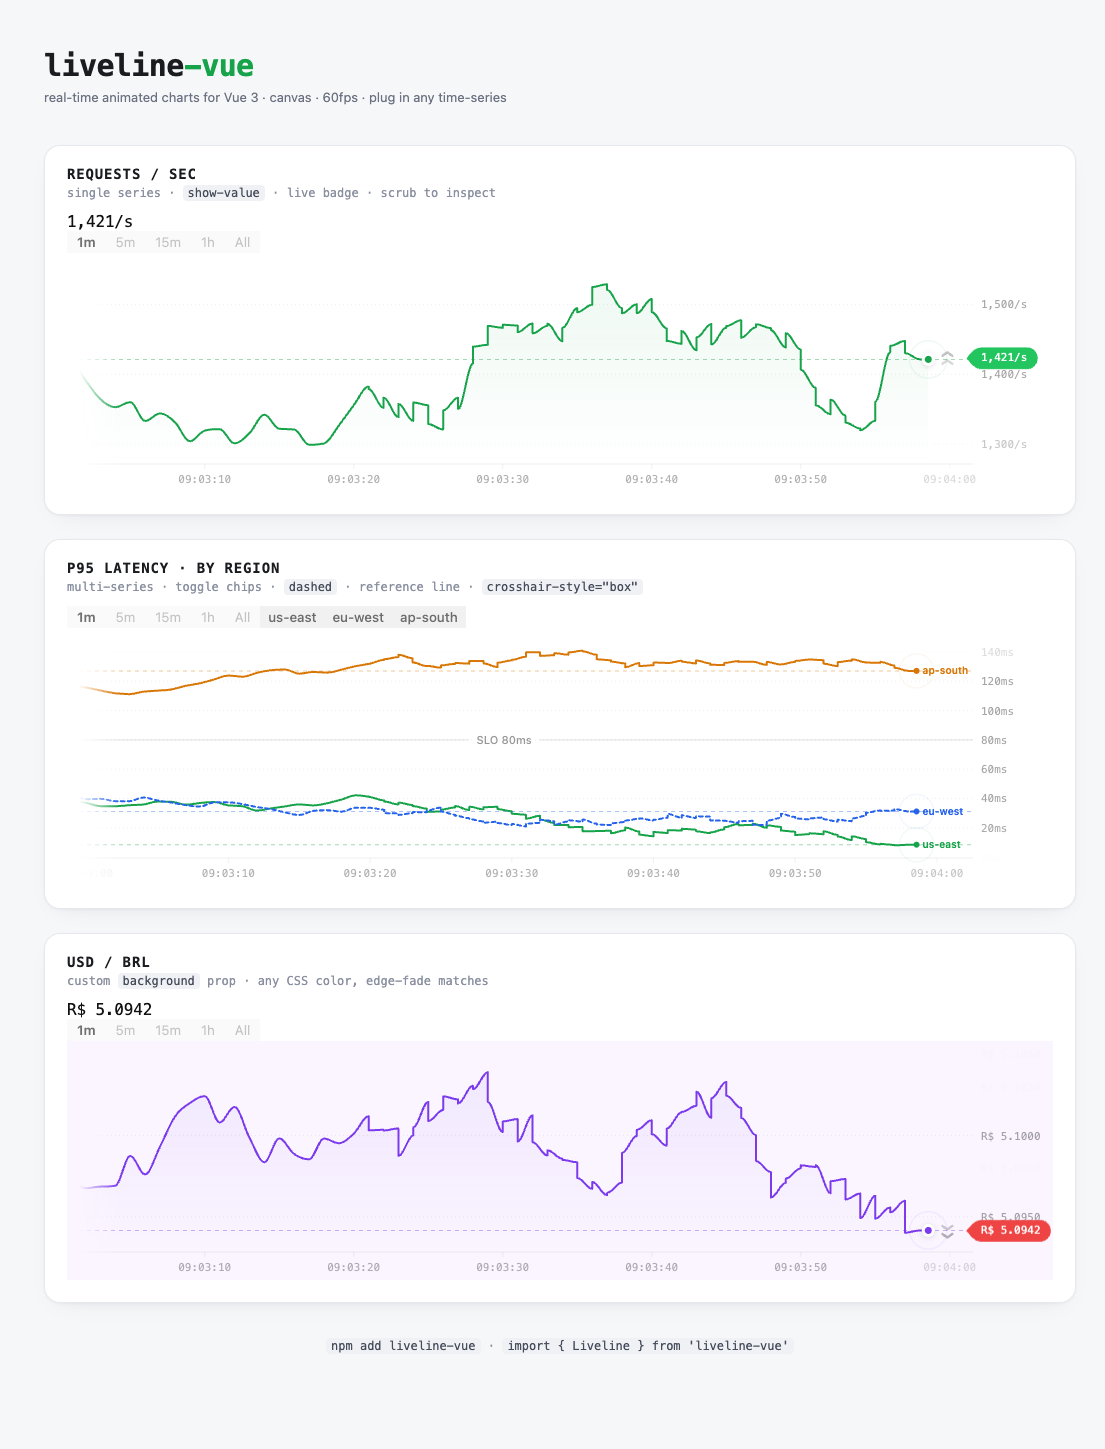
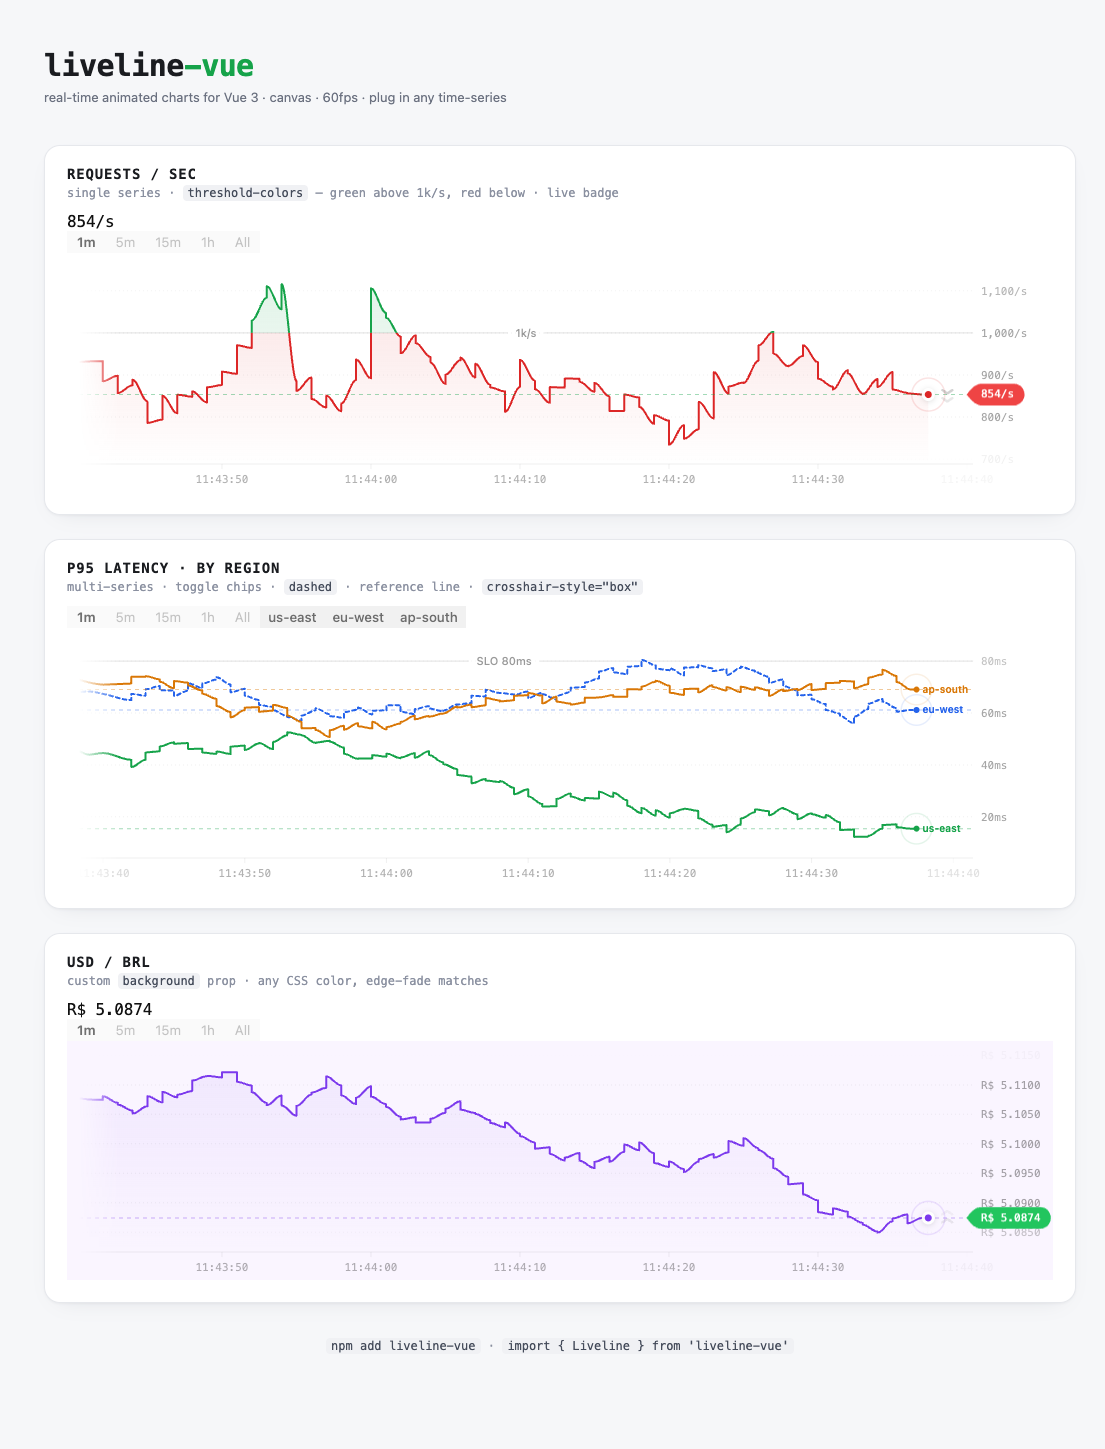
feat: thresholdColors — colour line + fill by a y threshold (green above / red below) (0.0.5)
Split lands exactly on the limit line (horizontal clip at the threshold's
screen-Y), so it works with the spline + fill — no per-segment interpolation
needed. The end dot follows the current above/below state. Single-series.
New prop in types.ts + Liveline.vue (default undefined, backward compatible).
Threaded through draw/line.ts (renderCurveThreshold), draw/index.ts, engine.
README + demo updated.

diff --git a/src/draw/line.ts b/src/draw/line.ts
@@ -1,4 +1,4 @@
-import type { LivelinePalette, ChartLayout, LivelinePoint } from '../types'
+import type { LivelinePalette, ChartLayout, LivelinePoint, ThresholdColors } from '../types'
 import { drawSpline } from '../math/spline'
 import { loadingY, loadingBreath, LOADING_AMPLITUDE_RATIO, LOADING_SCROLL_SPEED } from './loadingShape'
 
@@ -31,6 +31,12 @@ function blendColor(c1: string, c2: string, t: number): string {
   return `rgba(${r},${g},${b},${a.toFixed(3)})`
 }
 
+/** CSS color → rgba() string at the given alpha. */
+function withAlpha(color: string, a: number): string {
+  const [r, g, b] = parseRgba(color)
+  return `rgba(${r}, ${g}, ${b}, ${a})`
+}
+
 /** Draw the fill gradient + stroke line for a set of points. */
 function renderCurve(
   ctx: CanvasRenderingContext2D,
@@ -41,6 +47,7 @@ function renderCurve(
   lineAlpha: number = 1,
   fillAlpha: number = 1,
   strokeColor?: string,
+  fillBase?: string,
 ) {
   const { h, pad } = layout
   const baseAlpha = ctx.globalAlpha
@@ -48,8 +55,13 @@ function renderCurve(
   if (showFill && fillAlpha > 0.01) {
     ctx.globalAlpha = baseAlpha * fillAlpha
     const grad = ctx.createLinearGradient(0, pad.top, 0, h - pad.bottom)
-    grad.addColorStop(0, palette.fillTop)
-    grad.addColorStop(1, palette.fillBottom)
+    if (fillBase) {
+      grad.addColorStop(0, withAlpha(fillBase, 0.14))
+      grad.addColorStop(1, withAlpha(fillBase, 0))
+    } else {
+      grad.addColorStop(0, palette.fillTop)
+      grad.addColorStop(1, palette.fillBottom)
+    }
     ctx.beginPath()
     ctx.moveTo(pts[0][0], h - pad.bottom)
     ctx.lineTo(pts[0][0], pts[0][1])
@@ -72,6 +84,42 @@ function renderCurve(
   ctx.globalAlpha = baseAlpha
 }
 
+/**
+ * Threshold colouring: draw the curve twice, clipped to horizontal bands split
+ * at the threshold's screen-Y. Above the limit → `above` colour, below → `below`.
+ * The split lands exactly on the limit line (= the crossing point), and works
+ * for the spline + fill without per-segment interpolation.
+ */
+function renderCurveThreshold(
+  ctx: CanvasRenderingContext2D,
+  layout: ChartLayout,
+  palette: LivelinePalette,
+  pts: [number, number][],
+  showFill: boolean,
+  lineAlpha: number,
+  fillAlpha: number,
+  th: ThresholdColors,
+) {
+  const { h, pad, toY, chartW } = layout
+  const thY = Math.max(pad.top, Math.min(h - pad.bottom, toY(th.value)))
+
+  // Above the limit
+  ctx.save()
+  ctx.beginPath()
+  ctx.rect(pad.left - 1, pad.top, chartW + 2, Math.max(0, thY - pad.top))
+  ctx.clip()
+  renderCurve(ctx, layout, palette, pts, showFill, lineAlpha, fillAlpha, th.above, th.above)
+  ctx.restore()
+
+  // Below the limit
+  ctx.save()
+  ctx.beginPath()
+  ctx.rect(pad.left - 1, thY, chartW + 2, Math.max(0, (h - pad.bottom) - thY))
+  ctx.clip()
+  renderCurve(ctx, layout, palette, pts, showFill, lineAlpha, fillAlpha, th.below, th.below)
+  ctx.restore()
+}
+
 export function drawLine(
   ctx: CanvasRenderingContext2D,
   layout: ChartLayout,
@@ -87,6 +135,7 @@ export function drawLine(
   colorBlend: number = 1,
   skipDashLine: boolean = false,
   fillScale: number = 1,
+  thresholdColors?: ThresholdColors,
 ) {
   const { h, pad, toX, toY, chartW, chartH } = layout
   const incomingAlpha = ctx.globalAlpha
@@ -157,6 +206,14 @@ export function drawLine(
 
   const isScrubbing = scrubX !== null
 
+  // Threshold colouring only once fully revealed (during reveal the line blends
+  // grey→accent, so we keep the single-colour path for that transition).
+  const useThreshold = thresholdColors != null && chartReveal >= 1 && colorBlend >= 1
+  const render = (la: number, fa: number) =>
+    useThreshold
+      ? renderCurveThreshold(ctx, layout, palette, pts, showFill, la, fa, thresholdColors!)
+      : renderCurve(ctx, layout, palette, pts, showFill, la, fa, strokeColor)
+
   // Clip line + fill to chart area — during big value jumps the range
   // lerps smoothly so the line may extend beyond the chart bounds.
   // Clipping keeps it tidy while the range catches up.
@@ -171,7 +228,7 @@ export function drawLine(
     ctx.beginPath()
     ctx.rect(0, 0, scrubX!, h)
     ctx.clip()
-    renderCurve(ctx, layout, palette, pts, showFill, lineAlpha, fillAlpha, strokeColor)
+    render(lineAlpha, fillAlpha)
     ctx.restore()
 
     // Dimmed portion: clipped to RIGHT of scrub point
@@ -180,10 +237,10 @@ export function drawLine(
     ctx.rect(scrubX!, 0, layout.w - scrubX!, h)
     ctx.clip()
     ctx.globalAlpha = incomingAlpha * (1 - scrubAmount * 0.6)
-    renderCurve(ctx, layout, palette, pts, showFill, lineAlpha, fillAlpha, strokeColor)
+    render(lineAlpha, fillAlpha)
     ctx.restore()
   } else {
-    renderCurve(ctx, layout, palette, pts, showFill, lineAlpha, fillAlpha, strokeColor)
+    render(lineAlpha, fillAlpha)
   }
 
   // Restore from chart-area clip

diff --git a/src/draw/index.ts b/src/draw/index.ts
@@ -1,4 +1,4 @@
-import type { LivelinePalette, ChartLayout, LivelinePoint, Momentum, ReferenceLine, OrderbookData, DegenOptions, CandlePoint } from '../types'
+import type { LivelinePalette, ChartLayout, LivelinePoint, Momentum, ReferenceLine, ThresholdColors, OrderbookData, DegenOptions, CandlePoint } from '../types'
 import { drawGrid, type GridState } from './grid'
 import { drawLine } from './line'
 import { drawDot, drawArrows, drawSimpleDot, drawMultiDot } from './dot'
@@ -38,6 +38,7 @@ export interface DrawOptions {
   showPulse: boolean
   showFill: boolean
   referenceLine?: ReferenceLine
+  thresholdColors?: ThresholdColors
   hoverX: number | null
   hoverValue: number | null
   hoverTime: number | null
@@ -127,7 +128,16 @@ export function drawFrame(
 
   // 3. Line + fill (with scrub dimming + reveal morphing)
   const scrubX = opts.scrubAmount > 0.05 ? opts.hoverX : null
-  const pts = drawLine(ctx, layout, palette, opts.visible, opts.smoothValue, opts.now, opts.showFill, scrubX, opts.scrubAmount, reveal, opts.now_ms)
+  const pts = drawLine(ctx, layout, palette, opts.visible, opts.smoothValue, opts.now, opts.showFill, scrubX, opts.scrubAmount, reveal, opts.now_ms, 1, false, 1, opts.thresholdColors)
+
+  // When threshold colouring is on, the end dot follows the current above/below
+  // state (not momentum) so the tip reads coherently with the line.
+  const dotPalette = opts.thresholdColors
+    ? (() => {
+        const c = opts.smoothValue >= opts.thresholdColors.value ? opts.thresholdColors.above : opts.thresholdColors.below
+        return { ...palette, line: c, dotUp: c, dotDown: c, dotFlat: c }
+      })()
+    : palette
 
   // 4. Time axis — same timing as grid
   {
@@ -159,7 +169,7 @@ export function drawFrame(
     if (dotAlpha > 0.01) {
       ctx.save()
       if (dotAlpha < 1) ctx.globalAlpha = dotAlpha
-      drawDot(ctx, lastPt[0], lastPt[1], palette, showPulse, dotScrub, opts.now_ms)
+      drawDot(ctx, lastPt[0], lastPt[1], dotPalette, showPulse, dotScrub, opts.now_ms)
       ctx.restore()
     }
 

diff --git a/demo/App.vue b/demo/App.vue
@@ -40,8 +40,9 @@ const pxBuf: LivelinePoint[] = []
 let pxLevel = 5.085
 
 function tick(t: number) {
-  reqLevel += (Math.random() - 0.5) * 60
-  if (Math.random() < 0.04) reqLevel += (Math.random() - 0.5) * 600
+  // mean-revert around 1000 so the line crosses the threshold both ways
+  reqLevel += (1000 - reqLevel) * 0.03 + (Math.random() - 0.5) * 130
+  if (Math.random() < 0.04) reqLevel += (Math.random() - 0.5) * 500
   reqLevel = Math.max(120, reqLevel)
   reqBuf.push({ time: t, value: reqLevel })
 
@@ -85,7 +86,7 @@ onBeforeUnmount(() => clearInterval(timer))
     <section class="card">
       <div class="card-head">
         <div class="title">REQUESTS / SEC</div>
-        <div class="sub">single series · <code>show-value</code> · live badge · scrub to inspect</div>
+        <div class="sub">single series · <code>threshold-colors</code> — green above 1k/s, red below · live badge</div>
       </div>
       <div class="chart">
         <Liveline
@@ -94,9 +95,12 @@ onBeforeUnmount(() => clearInterval(timer))
           color="#16a34a"
           theme="light"
           grid
+          fill
           show-value
           :window="reqWindow"
           :windows="windows"
+          :reference-line="{ value: 1000, label: '1k/s' }"
+          :threshold-colors="{ value: 1000, above: '#16a34a', below: '#dc2626' }"
           :format-value="(v: number) => `${Math.round(v).toLocaleString('en-US')}/s`"
           @window-change="(s: number) => (reqWindow = s)"
         />

diff --git a/src/types.ts b/src/types.ts
@@ -15,6 +15,12 @@ export interface ReferenceLine {
   label?: string
 }
 
+export interface ThresholdColors {
+  value: number   // the y threshold (often === referenceLine.value)
+  above: string   // colour for segments above the threshold
+  below: string   // colour for segments below the threshold
+}
+
 export interface HoverPoint {
   time: number
   value: number
@@ -105,6 +111,7 @@ export interface LivelineProps {
 
   // Optional
   referenceLine?: ReferenceLine
+  thresholdColors?: ThresholdColors  // colour the line/fill by a y threshold (above/below)
   formatValue?: (v: number) => string
   formatTime?: (t: number) => string
   lerpSpeed?: number

diff --git a/src/useLivelineEngine.ts b/src/useLivelineEngine.ts
@@ -1,5 +1,5 @@
 import { onMounted, onBeforeUnmount, type Ref } from 'vue'
-import type { LivelinePoint, LivelinePalette, LivelineSeries, Momentum, ReferenceLine, HoverPoint, Padding, ChartLayout, OrderbookData, DegenOptions, BadgeVariant, CandlePoint } from './types'
+import type { LivelinePoint, LivelinePalette, LivelineSeries, Momentum, ReferenceLine, ThresholdColors, HoverPoint, Padding, ChartLayout, OrderbookData, DegenOptions, BadgeVariant, CandlePoint } from './types'
 import { lerp } from './math/lerp'
 import { computeRange } from './math/range'
 import { detectMomentum } from './math/momentum'
@@ -26,6 +26,7 @@ export interface EngineConfig {
   momentumOverride?: Momentum
   showFill: boolean
   referenceLine?: ReferenceLine
+  thresholdColors?: ThresholdColors
   formatValue: (v: number) => string
   formatTime: (t: number) => string
   padding: Required<Padding>
@@ -1736,6 +1737,7 @@ export function useLivelineEngine(
       showPulse: cfg.showPulse,
       showFill: cfg.showFill,
       referenceLine: cfg.referenceLine,
+      thresholdColors: cfg.thresholdColors,
       hoverX: drawHoverX,
       hoverValue: drawHoverValue,
       hoverTime: drawHoverTime,

diff --git a/src/Liveline.vue b/src/Liveline.vue
@@ -206,6 +206,7 @@ useLivelineEngine(canvasRef, containerRef, () => ({
   momentumOverride: momentumOverride.value,
   showFill: isMultiSeries.value ? false : props.fill,
   referenceLine: props.referenceLine,
+  thresholdColors: props.thresholdColors,
   formatValue: props.formatValue ?? defaultFormatValue,
   formatTime: props.formatTime ?? defaultFormatTime,
   padding: pad.value,

diff --git a/README.md b/README.md
@@ -86,6 +86,18 @@ const windows: WindowOption[] = [
 </template>
 ```
 
+## Threshold colours
+
+Colour the line **and** fill by a y threshold — green above the limit, red below, split exactly on the limit line (works with the spline + fill). Great for "above target / below target" metrics.
+
+```vue
+<Liveline
+  :data="data" :value="value" fill
+  :reference-line="{ value: 1000, label: '1k/s' }"
+  :threshold-colors="{ value: 1000, above: '#16a34a', below: '#dc2626' }"
+/>
+```
+
 ## Props
 
 Same surface as the React original. Highlights:
@@ -101,6 +113,7 @@ Same surface as the React original. Highlights:
 | `window` | `number` | `30` | Visible window (seconds) |
 | `windows` | `WindowOption[]` | — | Built-in time-range buttons |
 | `referenceLine` | `{ value, label? }` | — | Dashed threshold line |
+| `thresholdColors` | `{ value, above, below }` | — | Colour the line + fill by a y threshold — `above` colour above the limit, `below` below; split exactly on the limit |
 | `series[].dashed` | `boolean` | `false` | Render a series as a dashed line |
 | `grid` · `fill` · `badge` · `momentum` · `pulse` · `scrub` | `boolean` | `true` | Feature flags |
 | `showValue` | `boolean` | `false` | Large live value overlay |